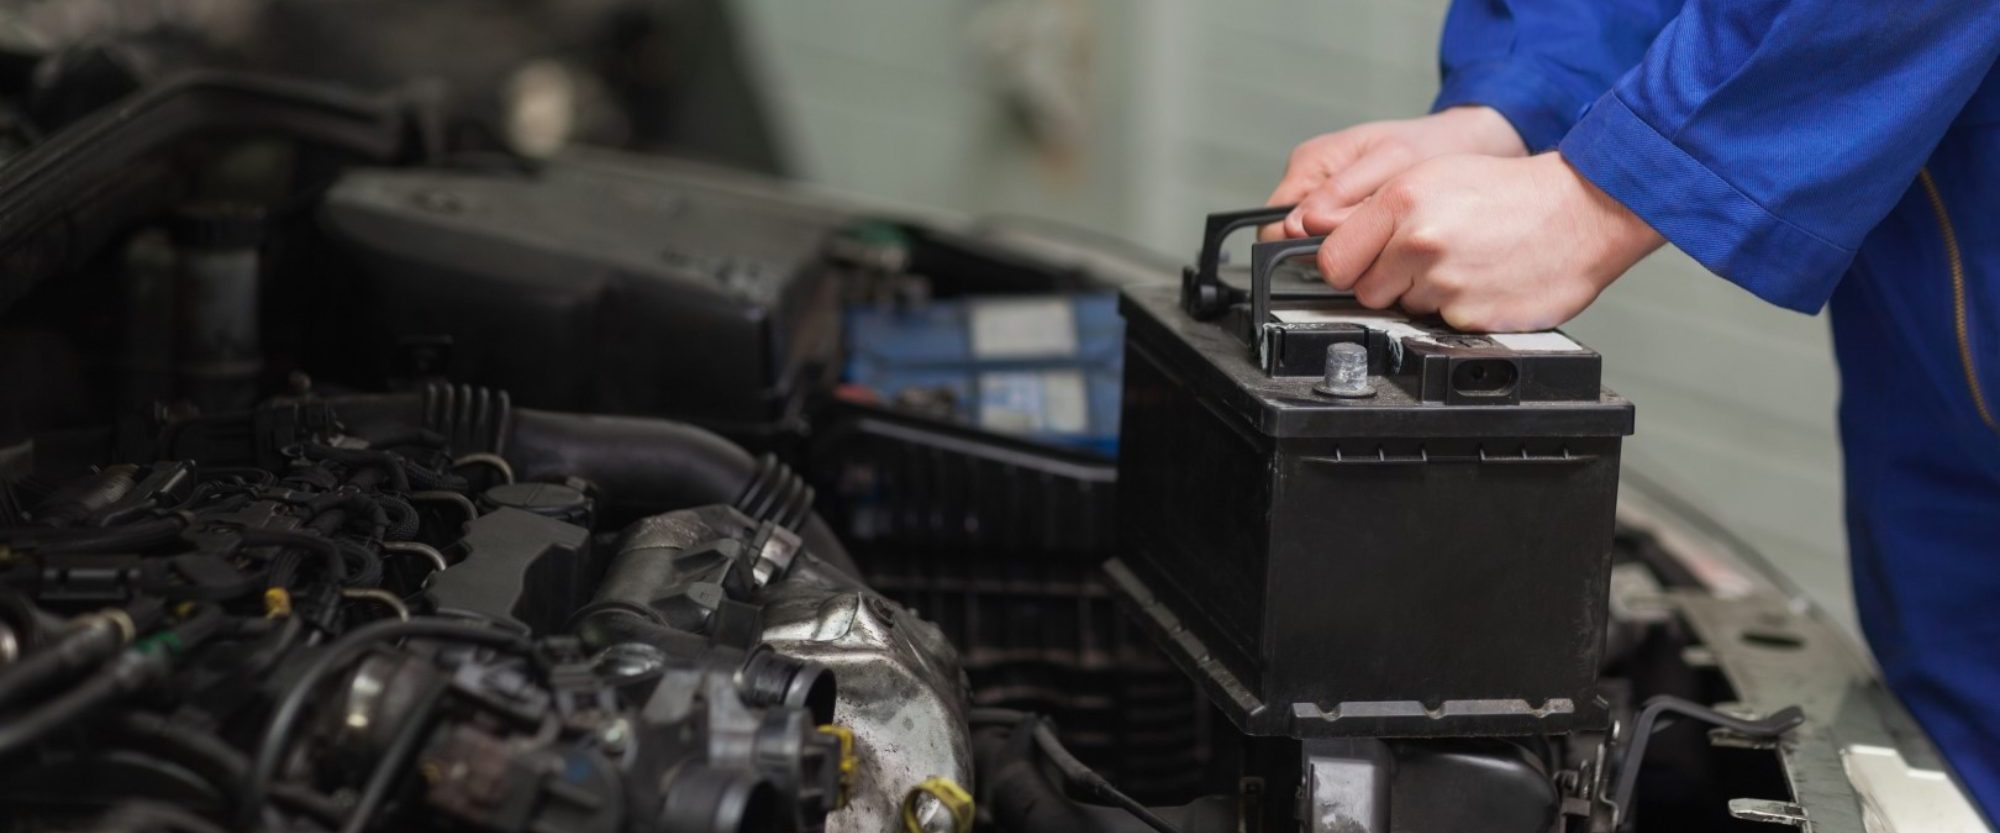
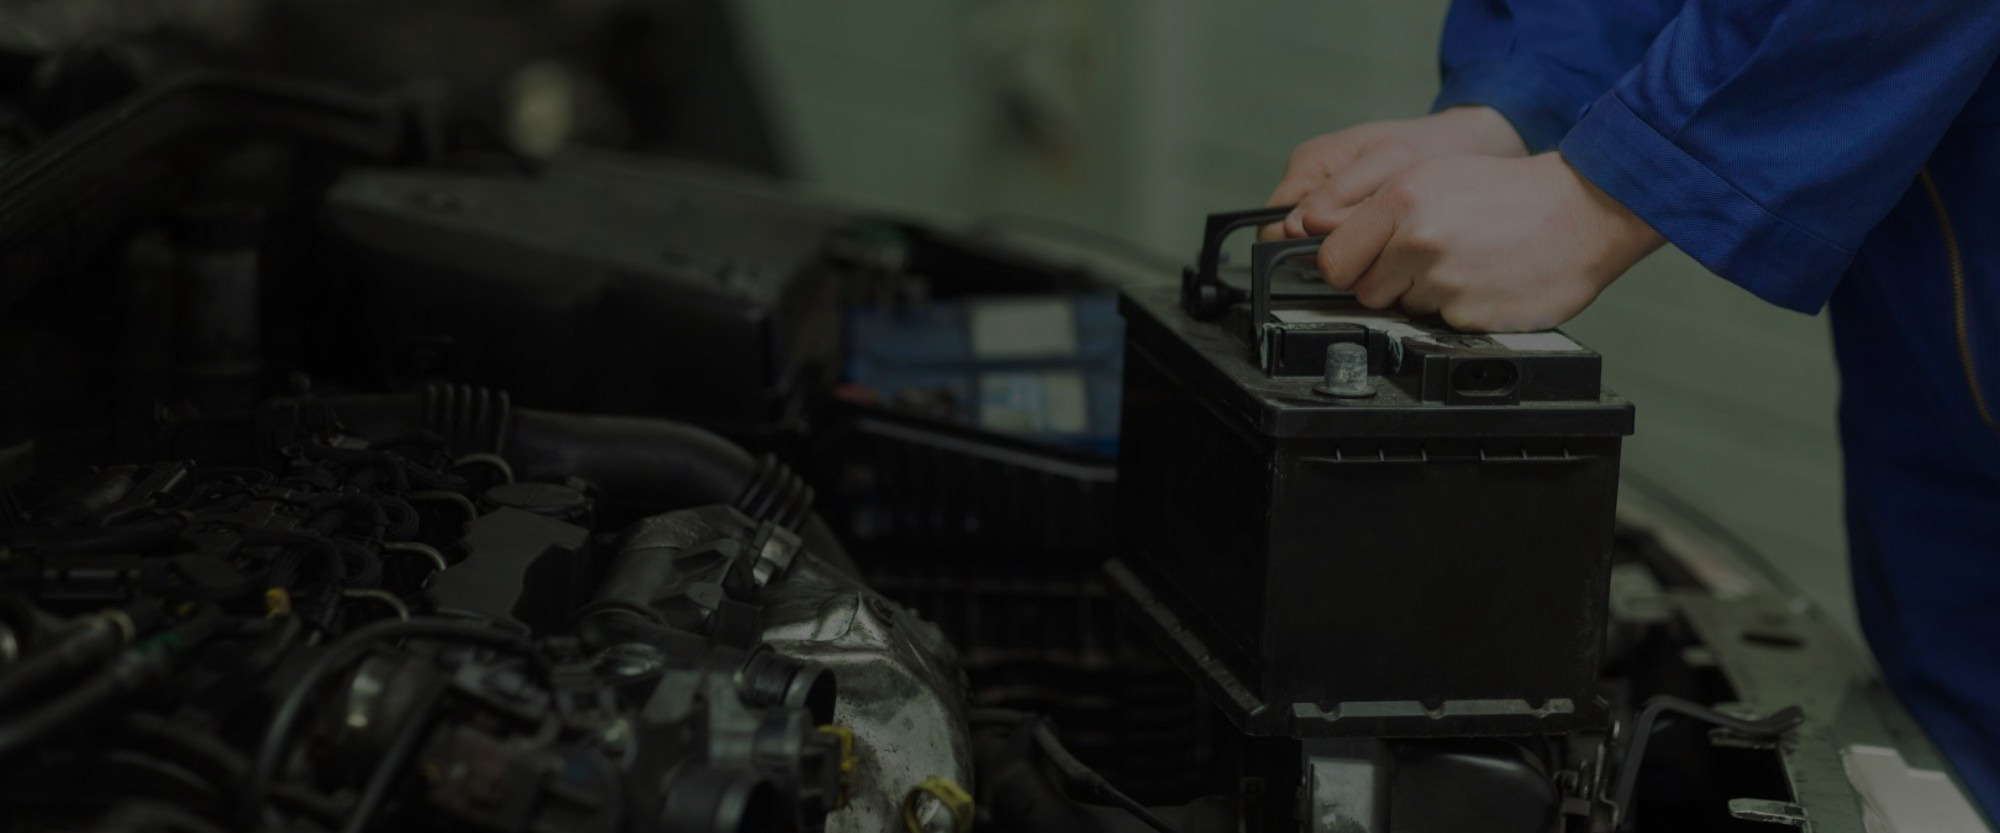
changes some images

diff --git a/index.html b/index.html
@@ -68,14 +68,13 @@
 				  	</div>
 		        </li>
 		        <li>
-		        	<img src="images/slider/bat1.jpg" alt="Slide 2">
+		        	<img src="images/slider/bat.jpg" alt="Slide 2">
 		        	<div class="slider-caption">
 					    <div class="templatemo_homewrapper">
-					      <h1 class="wow fadeInDown" data-wow-delay="2000">Flex Slider, CSS Flexbox</h1>
+					      <h1 class="wow fadeInDown" data-wow-delay="2000">GREEN BATTERY</h1>
 					      <h2 class="wow fadeInDown" data-wow-delay="2000">
-							<span>work on all modern browsers, Works on IE 10+</span>
+							<span>RECIBIMOS TU BATERÍA COMO PARTE DE PAGO</span>
 						</h2>
-						<p>see caniuse.com for browser compatibility information</p>
 						<a href="#about" class="smoothScroll btn btn-default wow fadeInDown" data-wow-delay="2000">See about us</a>
 					    </div>
 				  	</div>
